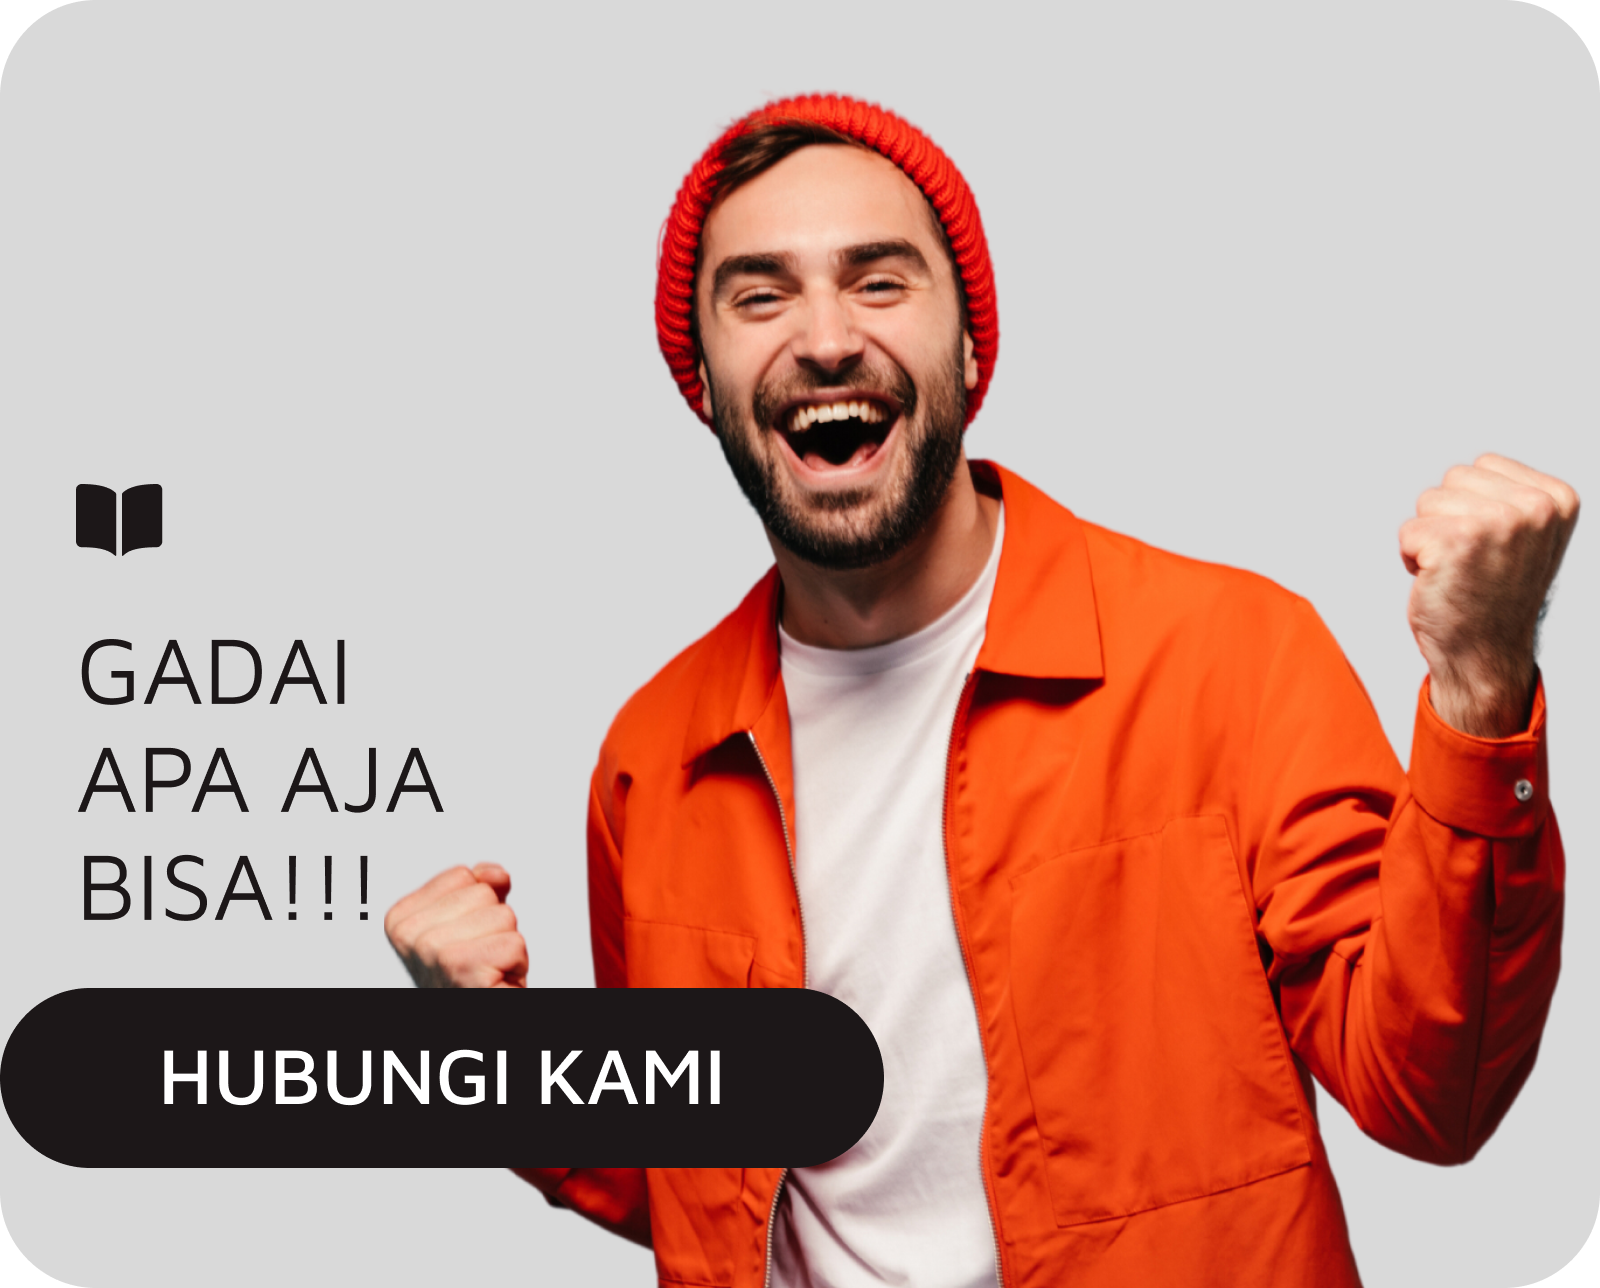
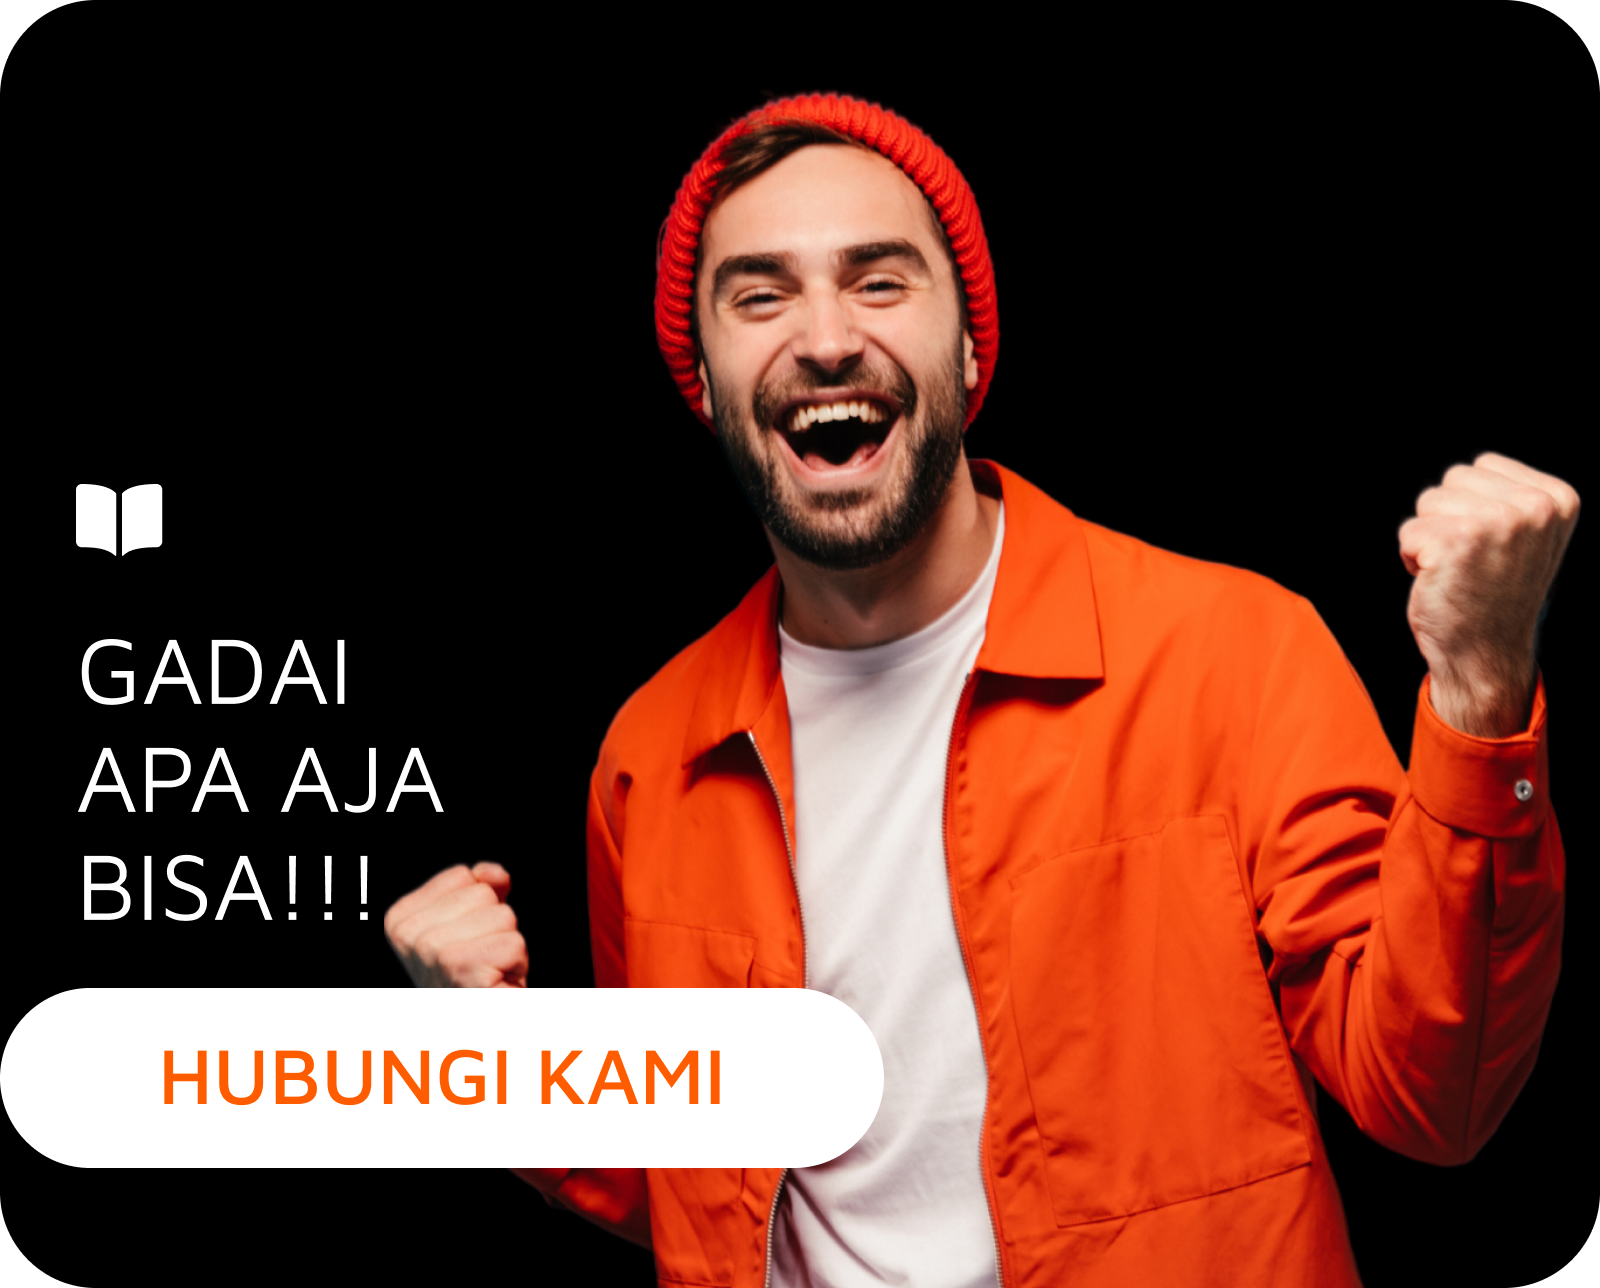
make footer and outlet

diff --git a/css/style.css b/css/style.css
@@ -7,16 +7,16 @@ body,
 html {
   font-family: "Maven Pro", sans-serif;
   margin: 0;
-  background-color: var(--hitam);
+  background-color: #ffffff;
 }
 
 nav {
   display: flex;
   align-items: center;
-  background-color: var(--hitam);
+  background-color: #ffffff;
   justify-content: space-between;
   padding: 0px 0px 0px 47px;
-  color: #f0ede2;
+  color: #000000;
   border-bottom: 7px solid var(--oren);
 }
 
@@ -52,7 +52,7 @@ main {
   height: 100vh;
   padding: 106px 92px 0px 73px;
   justify-content: space-between;
-  background: var(--hitam) url("../src/main-bg.png") no-repeat;
+  background: #ffffff url("../src/main-bg.png") no-repeat;
   background-position: 73px 100px;
   background-size: 896px 701.99px;
 }
@@ -60,7 +60,7 @@ main {
 .main-title {
   font-size: 90px;
   /* margin: 0; */
-  color: #ffffff;
+  color: black;
   line-height: 89%;
   font-family: "Montserrat", sans-serif;
   margin: 0;
@@ -78,7 +78,7 @@ main {
 .main-btn {
   background-color: var(--oren);
   padding: 20px 16px;
-  color: white;
+  color: black;
   width: fit-content;
   border-radius: 12px;
   margin-top: 30px;
@@ -96,7 +96,8 @@ main {
 }
 
 .section {
-  background: var(--putih);
+  background: black;
+  color: white;
   display: flex;
   justify-content: space-between;
   gap: 52px;
@@ -136,8 +137,8 @@ main {
   align-items: center;
   justify-content: space-between;
   padding: 115px 81px 157px 54px;
-  background-color: var(--hitam);
-  color: white;
+  background-color: #ffffff;
+  color: black;
   border-top: 4px solid var(--oren);
   border-bottom: 4px solid var(--oren);
   margin-top: 27px;
@@ -186,7 +187,7 @@ main {
   font-family: "Montserrat", sans-serif;
   font-size: 64px;
   margin: 0;
-  color: var(--putih);
+  color: black;
 }
 
 .jaminan-hr,
@@ -209,7 +210,7 @@ main {
 .jaminan-each {
   width: 250px;
   aspect-ratio: 1/1;
-  background: #f5f5f5;
+  background: var(--oren);
   border-radius: 43px;
   position: relative;
   display: flex;
@@ -218,7 +219,7 @@ main {
 }
 
 .jaminan-each > h2 {
-  color: black;
+  color: white;
   position: absolute;
   bottom: 18px;
   text-transform: uppercase;
@@ -247,8 +248,8 @@ main {
 }
 
 .cara-each {
-  background: linear-gradient(180deg, rgba(0, 0, 0, 0) 0%, #1c1718 100%),
-    #ff5c00;
+  background: linear-gradient(180deg, rgba(0, 0, 0, 0) 0%, #ffffff 100%),
+    var(--oren);
   display: flex;
   align-items: center;
   padding: 0 25px;
@@ -286,9 +287,129 @@ main {
 
 .cara-btn {
   color: var(--oren);
-  background: #ffffff;
+  background: black;
   border-radius: 19px;
   padding: 23px 20px;
   font-weight: 600;
   font-size: 36px;
+}
+
+.outlet {
+  display: flex;
+  flex-direction: column;
+  align-items: center;
+  padding: 0 152px;
+  margin-top: 80px;
+}
+
+.outlet-title {
+  font-size: 64px;
+  margin: 0;
+}
+
+.outlet-content {
+  margin-top: 40px;
+  text-align: center;
+  background-color: var(--oren);
+  border-radius: 24px;
+  color: white;
+  padding: 51px 200px;
+  padding-bottom: 11px;
+}
+
+.outlet-contitle {
+  font-family: "Montserrat", sans-serif;
+  font-weight: 600;
+  font-size: 36px;
+  margin: 0;
+}
+
+.outlet-text {
+  font-weight: 400;
+  font-size: 24px;
+  margin: 0;
+  line-height: 28px;
+  margin-top: 20px;
+}
+
+.outlet-cek {
+  margin: 0;
+  border-radius: 24px;
+  background-color: #000000;
+  color: white;
+  font-size: 32px;
+  font-family: "Montserrat", sans-serif;
+  padding: 25px 90px;
+}
+
+footer {
+  padding: 99px;
+  margin-top: 200px;
+}
+
+.footer-title {
+  margin: 0;
+  font-weight: 700;
+  font-size: 90px;
+  font-family: "Montserrat", sans-serif;
+  line-height: 89%;
+  text-transform: uppercase;
+}
+
+.footer-content {
+  padding-left: 40px;
+  padding-right: 70px;
+  margin-top: 40px;
+  display: flex;
+  justify-content: space-between;
+}
+
+.footer-left {
+  display: flex;
+  flex-direction: column;
+  justify-content: space-between;
+}
+.footer-right {
+  align-items: center;
+  display: flex;
+  flex-direction: column;
+  justify-content: space-between;
+}
+
+.footer-leftup > h1 {
+  font-weight: 500;
+  margin: 0;
+  font-size: 64px;
+}
+.footer-leftup > h2 {
+  font-weight: 400;
+  margin: 0;
+  font-size: 32px;
+}
+
+.footer-rightup > h1 {
+  font-weight: 500;
+  margin: 0;
+  font-size: 64px;
+}
+.footer-rightup > h2 {
+  font-weight: 400;
+  margin: 0;
+  font-size: 32px;
+}
+
+.footer-visit {
+  width: 263px;
+}
+
+.footer-social {
+  margin-top: 40px;
+  display: flex;
+  gap: 30px;
+  font-size: 30px;
+}
+
+.footer-logo {
+  width: 419px;
+  margin-top: 70px;
 }

diff --git a/index.html b/index.html
@@ -51,7 +51,7 @@
       <div class="section-right">
         <h2 class="section-title">
           GO <span class="main-color"> GADAI </span>
-          <img class="section-logo" src="./src/logo-hitam.png" alt="" />
+          <img class="section-logo" src="./src/logo-putih.png" alt="" />
         </h2>
         <p class="section-text">
           Lorem ipsum dolor sit amet consectetur adipisicing elit. Error numquam
@@ -154,5 +154,63 @@
         ></i>
       </h1>
     </div>
+
+    <div class="outlet">
+      <h1 class="outlet-title">
+        OUTLET Go<span class="main-color">Gadai</span>
+      </h1>
+      <div class="outlet-content">
+        <h1 class="outlet-contitle">KAMI HADIR DI BERBAGAI TEMPAT</h1>
+        <p class="outlet-text">
+          Lorem ipsum dolor sit amet, consectetur adipiscing elit. Vestibulum
+          sodales sit amet sem quis interdum. Nulla facilisi. In gravida, quam
+          vitae ullamcorper congue, odio orci mollis nisi,
+        </p>
+        <i
+          class="fa-solid fa-circle-arrow-down"
+          style="color: black; font-size: 60px; margin-top: 25px"
+        ></i>
+      </div>
+      <h1 class="outlet-cek">CEK OUTLET</h1>
+    </div>
+
+    <footer>
+      <h1 class="footer-title">
+        Butuh uang?<br />
+        <span class="main-color">go gadai</span> aja
+      </h1>
+      <hr />
+
+      <div class="footer-content">
+        <div class="footer-left">
+          <div class="footer-leftup">
+            <h1>Buka setiap Hari</h1>
+            <h2>Pukul 09.00 - 16.00</h2>
+          </div>
+          <div>
+            <img class="footer-visit" src="./src/footer-visit.png" alt="" />
+            <div class="footer-social">
+              <i class="fa-brands fa-dribbble" style="color: #000000"></i>
+              <i class="fa-brands fa-instagram" style="color: #000000"></i>
+              <i class="fa-brands fa-twitter" style="color: #000000"></i>
+              <i class="fa-brands fa-linkedin-in" style="color: #000000"></i>
+              <i class="fa-brands fa-facebook-f" style="color: #000000"></i>
+            </div>
+          </div>
+        </div>
+        <div class="footer-right">
+          <div class="footer-rightup">
+            <h1>Alamat Kantor</h1>
+            <h2>
+              Jl. KH Hasyim Ashari (Ciledug Raya) <br />
+              no. 80b,<br />
+              Pedurenan, Ciledug,Tangerang,<br />
+              Banten
+            </h2>
+          </div>
+          <img class="footer-logo" src="./src/logo-hitam.png" alt="" />
+        </div>
+      </div>
+    </footer>
   </body>
 </html>
